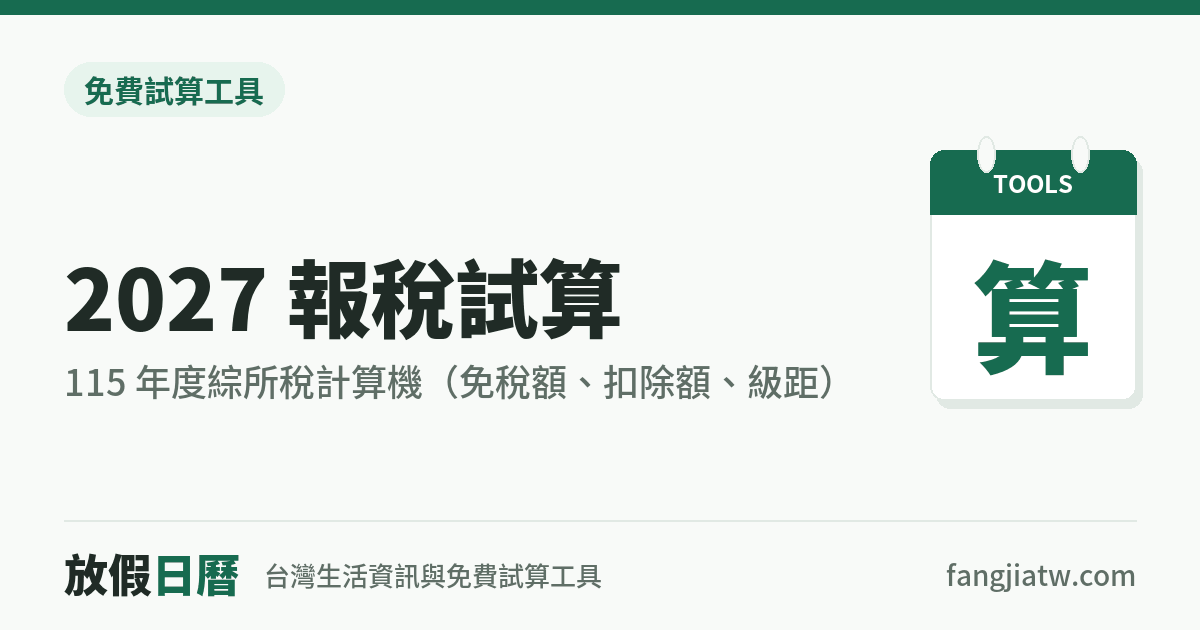
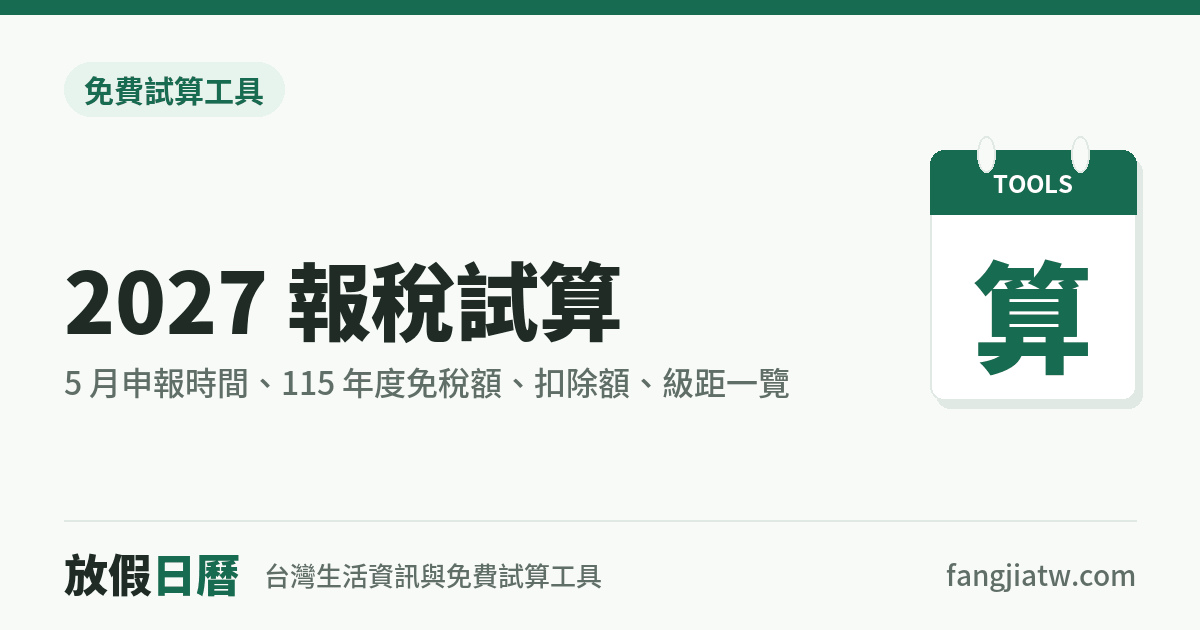
Income-tax page: retitle for 2027 報稅 queries (filing dates first), FAQ lead question, section headings; fix spouse fieldset showing when hidden (tools.css v6)

Changed region(s): [[0.0617, 0.3921, 0.5242, 0.5429], [0.0617, 0.573, 0.7092, 0.6333]]

diff --git a/tools/income-tax/index.html b/tools/income-tax/index.html
@@ -4,15 +4,15 @@
 <meta charset="utf-8">
 <meta name="google-adsense-account" content="ca-pub-1876699539464325">
 <meta name="viewport" content="width=device-width,initial-scale=1,viewport-fit=cover">
-<title>2027 報稅試算｜115 年度綜所稅計算機（免稅額、扣除額、級距）｜放假日曆</title>
-<meta name="description" content="115 年度綜合所得稅試算：免稅額 10.1 萬、未成年子女 15.15 萬、標準扣除額 13.6 萬、薪資特別扣除額 22.7 萬，淨所得 61 萬以下稅率 5%。輸入薪資立即算出應納稅額，附 Excel 公式。">
+<title>2027 報稅試算｜5 月申報時間、115 年度免稅額、扣除額、級距一覽｜放假日曆</title>
+<meta name="description" content="2027 年 5/1～5/31 報稅，申報 115 年度所得：免稅額 10.1 萬、未成年子女 15.15 萬、標準扣除額 13.6 萬、薪資特別扣除額 22.7 萬，淨所得 61 萬以下稅率 5%。輸入薪資立即試算應納稅額，附免費 Excel。">
 <link rel="canonical" href="https://fangjiatw.com/tools/income-tax/">
 <link rel="icon" href="/favicon.ico" sizes="48x48">
 <link rel="icon" href="/favicon.svg" type="image/svg+xml">
 <link rel="apple-touch-icon" href="/apple-touch-icon.png">
 <meta property="og:type" content="website">
-<meta property="og:title" content="2027 報稅試算｜115 年度綜所稅計算機（免稅額、扣除額、級距）">
-<meta property="og:description" content="115 年度綜合所得稅試算：免稅額 10.1 萬、未成年子女 15.15 萬、標準扣除額 13.6 萬、薪資特別扣除額 22.7 萬，淨所得 61 萬以下稅率 5%。輸入薪資立即算出應納稅額，附 Excel 公式。">
+<meta property="og:title" content="2027 報稅試算｜5 月申報時間、115 年度免稅額、扣除額、級距一覽">
+<meta property="og:description" content="2027 年 5/1～5/31 報稅，申報 115 年度所得：免稅額 10.1 萬、未成年子女 15.15 萬、標準扣除額 13.6 萬、薪資特別扣除額 22.7 萬，淨所得 61 萬以下稅率 5%。輸入薪資立即試算應納稅額，附免費 Excel。">
 <meta property="og:url" content="https://fangjiatw.com/tools/income-tax/">
 <meta property="og:image" content="https://fangjiatw.com/assets/og/tools-income-tax.png">
 <meta property="og:image:width" content="1200">
@@ -21,17 +21,17 @@
 <link rel="preconnect" href="https://fonts.googleapis.com">
 <link rel="stylesheet" href="https://fonts.googleapis.com/css2?family=Noto+Sans+TC:wght@400;500;700;900&display=swap">
 <link rel="stylesheet" href="/assets/site.css?v=9">
-<link rel="stylesheet" href="/assets/tools/tools.css?v=5">
+<link rel="stylesheet" href="/assets/tools/tools.css?v=6">
 <script type="application/ld+json">
 {
  "@context": "https://schema.org",
  "@graph": [
   {
    "@type": "WebPage",
-   "name": "2027 報稅試算｜115 年度綜所稅計算機（免稅額、扣除額、級距）",
+   "name": "2027 報稅試算｜5 月申報時間、115 年度免稅額、扣除額、級距一覽",
    "url": "https://fangjiatw.com/tools/income-tax/",
    "inLanguage": "zh-Hant-TW",
-   "dateModified": "2026-11-01",
+   "dateModified": "2026-11-21",
    "publisher": {
     "@type": "Organization",
     "name": "放假日曆",
@@ -80,10 +80,10 @@
    "mainEntity": [
     {
      "@type": "Question",
-     "name": "115 年度綜所稅什麼時候申報？",
+     "name": "2027 年什麼時候報稅？",
      "acceptedAnswer": {
       "@type": "Answer",
-      "text": "115 年（2026 年）的所得，在 116 年（2027 年）5 月 1 日到 5 月 31 日申報，實際日期以財政部公告為準。"
+      "text": "2027 年 5 月 1 日到 5 月 31 日，申報的是 115 年度（2026 年）的所得。實際日期以財政部公告為準；期限最後一天遇到假日會順延。"
      }
     },
     {
@@ -141,11 +141,11 @@
 <main class="article">
   <div>
     <div class="crumb"><a href="/">放假日曆</a> › <a href="/tools/">試算工具</a> › 所得稅試算</div>
-    <h1>115 年度綜所稅試算<br>明年 5 月報稅前先算一次</h1>
-    <div class="meta">更新日期：2026 年 11 月 1 日</div>
+    <h1>2027 報稅試算<br>免稅額、扣除額、<span style="white-space:nowrap">級距一覽</span></h1>
+    <div class="meta">更新日期：2026 年 11 月 21 日</div>
   </div>
 
-  <div class="answer">2027 年 5 月申報的是 <b>115 年度</b>所得。115 年度起免稅額、扣除額和級距全面調高，<b>未成年子女免稅額更提高到 15.15 萬</b>。單身租屋族年薪 <b>64.4 萬</b>以下不用繳稅。</div>
+  <div class="answer">2027 年報稅時間是 <b>5 月 1 日～5 月 31 日</b>，申報的是 <b>115 年度（2026 年）</b>所得。免稅額 <b>10.1 萬</b>、標準扣除額 <b>13.6 萬</b>、薪資特別扣除額 <b>22.7 萬</b>，未成年子女免稅額提高到 <b>15.15 萬</b>；單身租屋族年薪 <b>64.4 萬</b>以下不用繳稅。</div>
 
   <section>
     <h2>綜所稅試算</h2>
@@ -190,7 +190,7 @@
 
 
   <section>
-    <h2>115 年度免稅額、扣除額一覽</h2>
+    <h2>2027 報稅免稅額、扣除額一覽（115 年度）</h2>
     <div class="tbl"><table>
       <thead><tr><th>項目</th><th>115 年度</th><th>114 年度</th></tr></thead>
       <tbody>
@@ -234,7 +234,7 @@
   </section>
 
   <section>
-    <h2>115 年度綜所稅課稅級距</h2>
+    <h2>2027 報稅課稅級距（115 年度）</h2>
     <div class="tbl"><table>
       <thead><tr><th>綜合所得淨額</th><th>稅率</th><th>累進差額</th></tr></thead>
       <tbody>
@@ -260,7 +260,7 @@
   </section>
   <section>
     <h2>常見問題</h2>
-    <details><summary>115 年度綜所稅什麼時候申報？</summary><p>115 年（2026 年）的所得，在 116 年（2027 年）5 月 1 日到 5 月 31 日申報，實際日期以財政部公告為準。</p></details>
+    <details><summary>2027 年什麼時候報稅？</summary><p>2027 年 5 月 1 日到 5 月 31 日，申報的是 115 年度（2026 年）的所得。實際日期以財政部公告為準；期限最後一天遇到假日會順延。</p></details>
     <details><summary>115 年度免稅額是多少？</summary><p>每人 10.1 萬元；本人、配偶或受扶養直系尊親屬年滿 70 歲為 15.15 萬元。另依 2026 年 8 月三讀的所得稅法修正，扶養未成年子女的免稅額也提高為每人 15.15 萬元。</p></details>
     <details><summary>單身上班族年薪多少以下不用繳稅？</summary><p>單身、只有薪資所得、用標準扣除額時，年薪 46.4 萬元以下不用繳稅；如果是全家無自有房屋的租屋族，還可以減除實際支付的房租（最多 18 萬元），年房租達 18 萬元時，年薪 64.4 萬元以下不用繳稅。</p></details>
     <details><summary>夫妻要合併還是分開計稅？</summary><p>夫妻要合併申報，但稅額可以選擇薪資分開計稅或各類所得分開計稅。報稅系統會自動比較，幫你選最省的方式；本試算也會比較這幾種方式，顯示最省的結果。</p></details>

diff --git a/assets/tools/tools.css b/assets/tools/tools.css
@@ -1,6 +1,7 @@
 /* 放假日曆 試算工具 */
 .tool{border:1px solid var(--rule);border-radius:8px;background:var(--sheet);padding:16px;display:grid;gap:14px}
 .tool fieldset{border:0;padding:0;margin:0;display:grid;gap:10px}
+.tool [hidden]{display:none}
 .tool legend{font-weight:700;margin-bottom:6px;font-family:var(--f-display)}
 .fields{display:grid;gap:10px;grid-template-columns:repeat(auto-fit,minmax(150px,1fr))}
 .field{display:grid;gap:4px;font-size:.85rem;color:var(--muted)}

diff --git a/tools/annual-leave/index.html b/tools/annual-leave/index.html
@@ -21,7 +21,7 @@
 <link rel="preconnect" href="https://fonts.googleapis.com">
 <link rel="stylesheet" href="https://fonts.googleapis.com/css2?family=Noto+Sans+TC:wght@400;500;700;900&display=swap">
 <link rel="stylesheet" href="/assets/site.css?v=9">
-<link rel="stylesheet" href="/assets/tools/tools.css?v=5">
+<link rel="stylesheet" href="/assets/tools/tools.css?v=6">
 <script type="application/ld+json">
 {
  "@context": "https://schema.org",

diff --git a/tools/currency/index.html b/tools/currency/index.html
@@ -21,7 +21,7 @@
 <link rel="preconnect" href="https://fonts.googleapis.com">
 <link rel="stylesheet" href="https://fonts.googleapis.com/css2?family=Noto+Sans+TC:wght@400;500;700;900&display=swap">
 <link rel="stylesheet" href="/assets/site.css?v=9">
-<link rel="stylesheet" href="/assets/tools/tools.css?v=5">
+<link rel="stylesheet" href="/assets/tools/tools.css?v=6">
 <script type="application/ld+json">
 {
  "@context": "https://schema.org",

diff --git a/tools/index.html b/tools/index.html
@@ -21,7 +21,7 @@
 <link rel="preconnect" href="https://fonts.googleapis.com">
 <link rel="stylesheet" href="https://fonts.googleapis.com/css2?family=Noto+Sans+TC:wght@400;500;700;900&display=swap">
 <link rel="stylesheet" href="/assets/site.css?v=9">
-<link rel="stylesheet" href="/assets/tools/tools.css?v=5">
+<link rel="stylesheet" href="/assets/tools/tools.css?v=6">
 <script type="application/ld+json">
 {
  "@context": "https://schema.org",

diff --git a/tools/insurance/index.html b/tools/insurance/index.html
@@ -21,7 +21,7 @@
 <link rel="preconnect" href="https://fonts.googleapis.com">
 <link rel="stylesheet" href="https://fonts.googleapis.com/css2?family=Noto+Sans+TC:wght@400;500;700;900&display=swap">
 <link rel="stylesheet" href="/assets/site.css?v=9">
-<link rel="stylesheet" href="/assets/tools/tools.css?v=5">
+<link rel="stylesheet" href="/assets/tools/tools.css?v=6">
 <script type="application/ld+json">
 {
  "@context": "https://schema.org",

diff --git a/tools/interest/index.html b/tools/interest/index.html
@@ -21,7 +21,7 @@
 <link rel="preconnect" href="https://fonts.googleapis.com">
 <link rel="stylesheet" href="https://fonts.googleapis.com/css2?family=Noto+Sans+TC:wght@400;500;700;900&display=swap">
 <link rel="stylesheet" href="/assets/site.css?v=9">
-<link rel="stylesheet" href="/assets/tools/tools.css?v=5">
+<link rel="stylesheet" href="/assets/tools/tools.css?v=6">
 <script type="application/ld+json">
 {
  "@context": "https://schema.org",

diff --git a/tools/labor-insurance-pension/index.html b/tools/labor-insurance-pension/index.html
@@ -21,7 +21,7 @@
 <link rel="preconnect" href="https://fonts.googleapis.com">
 <link rel="stylesheet" href="https://fonts.googleapis.com/css2?family=Noto+Sans+TC:wght@400;500;700;900&display=swap">
 <link rel="stylesheet" href="/assets/site.css?v=9">
-<link rel="stylesheet" href="/assets/tools/tools.css?v=5">
+<link rel="stylesheet" href="/assets/tools/tools.css?v=6">
 <script type="application/ld+json">
 {
  "@context": "https://schema.org",

diff --git a/tools/loan/index.html b/tools/loan/index.html
@@ -21,7 +21,7 @@
 <link rel="preconnect" href="https://fonts.googleapis.com">
 <link rel="stylesheet" href="https://fonts.googleapis.com/css2?family=Noto+Sans+TC:wght@400;500;700;900&display=swap">
 <link rel="stylesheet" href="/assets/site.css?v=9">
-<link rel="stylesheet" href="/assets/tools/tools.css?v=5">
+<link rel="stylesheet" href="/assets/tools/tools.css?v=6">
 <script type="application/ld+json">
 {
  "@context": "https://schema.org",

diff --git a/tools/overtime/index.html b/tools/overtime/index.html
@@ -21,7 +21,7 @@
 <link rel="preconnect" href="https://fonts.googleapis.com">
 <link rel="stylesheet" href="https://fonts.googleapis.com/css2?family=Noto+Sans+TC:wght@400;500;700;900&display=swap">
 <link rel="stylesheet" href="/assets/site.css?v=9">
-<link rel="stylesheet" href="/assets/tools/tools.css?v=5">
+<link rel="stylesheet" href="/assets/tools/tools.css?v=6">
 <script type="application/ld+json">
 {
  "@context": "https://schema.org",

diff --git a/tools/pension/index.html b/tools/pension/index.html
@@ -21,7 +21,7 @@
 <link rel="preconnect" href="https://fonts.googleapis.com">
 <link rel="stylesheet" href="https://fonts.googleapis.com/css2?family=Noto+Sans+TC:wght@400;500;700;900&display=swap">
 <link rel="stylesheet" href="/assets/site.css?v=9">
-<link rel="stylesheet" href="/assets/tools/tools.css?v=5">
+<link rel="stylesheet" href="/assets/tools/tools.css?v=6">
 <script type="application/ld+json">
 {
  "@context": "https://schema.org",

diff --git a/tools/severance/index.html b/tools/severance/index.html
@@ -21,7 +21,7 @@
 <link rel="preconnect" href="https://fonts.googleapis.com">
 <link rel="stylesheet" href="https://fonts.googleapis.com/css2?family=Noto+Sans+TC:wght@400;500;700;900&display=swap">
 <link rel="stylesheet" href="/assets/site.css?v=9">
-<link rel="stylesheet" href="/assets/tools/tools.css?v=5">
+<link rel="stylesheet" href="/assets/tools/tools.css?v=6">
 <script type="application/ld+json">
 {
  "@context": "https://schema.org",
